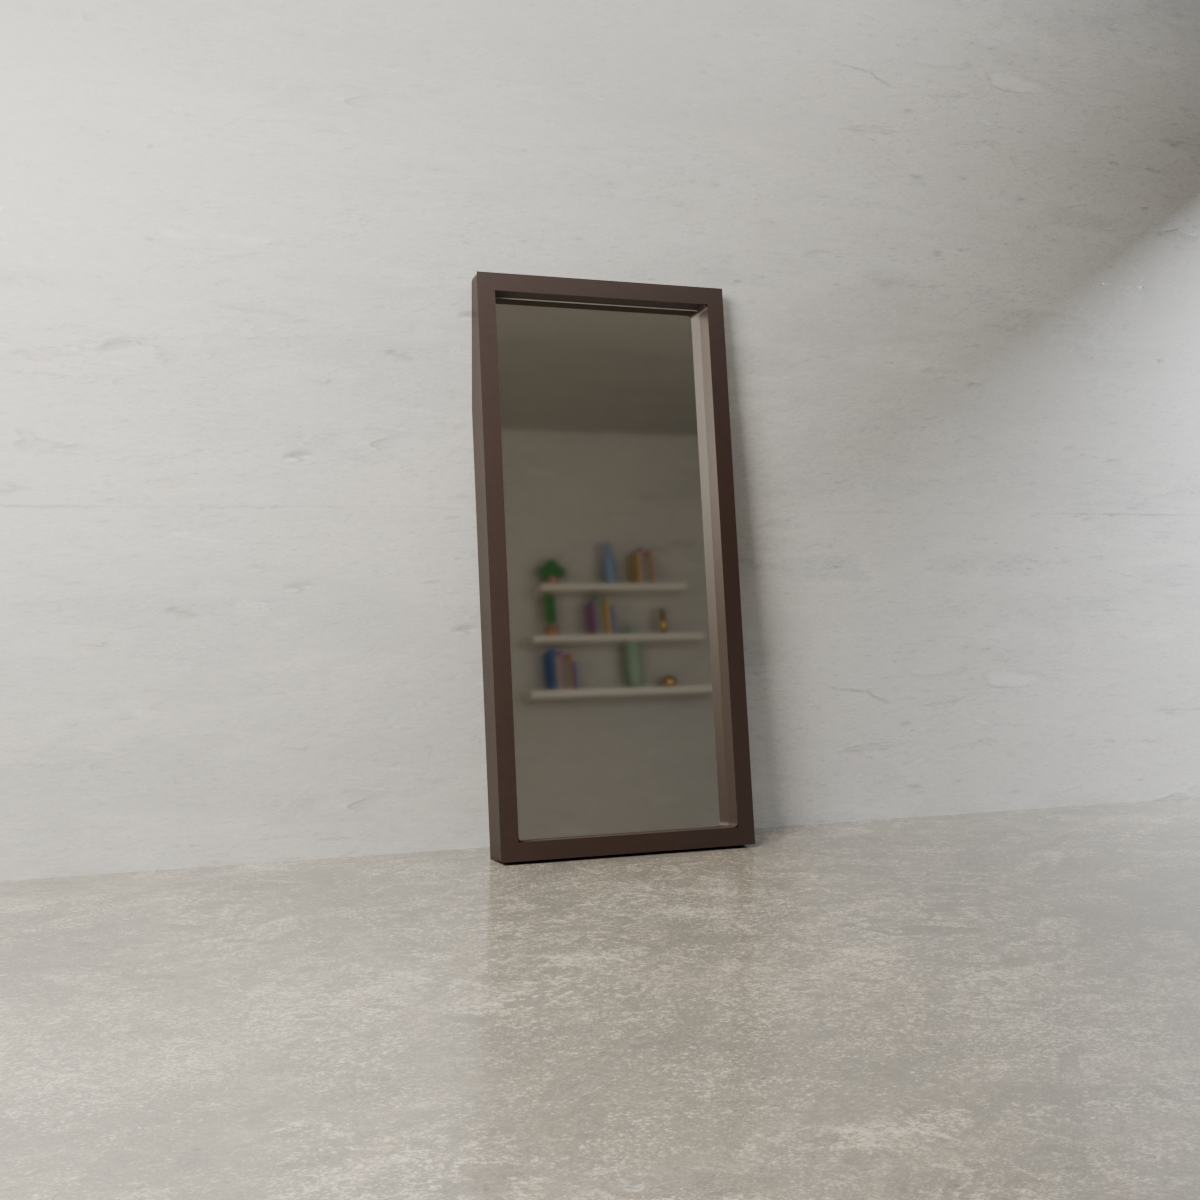
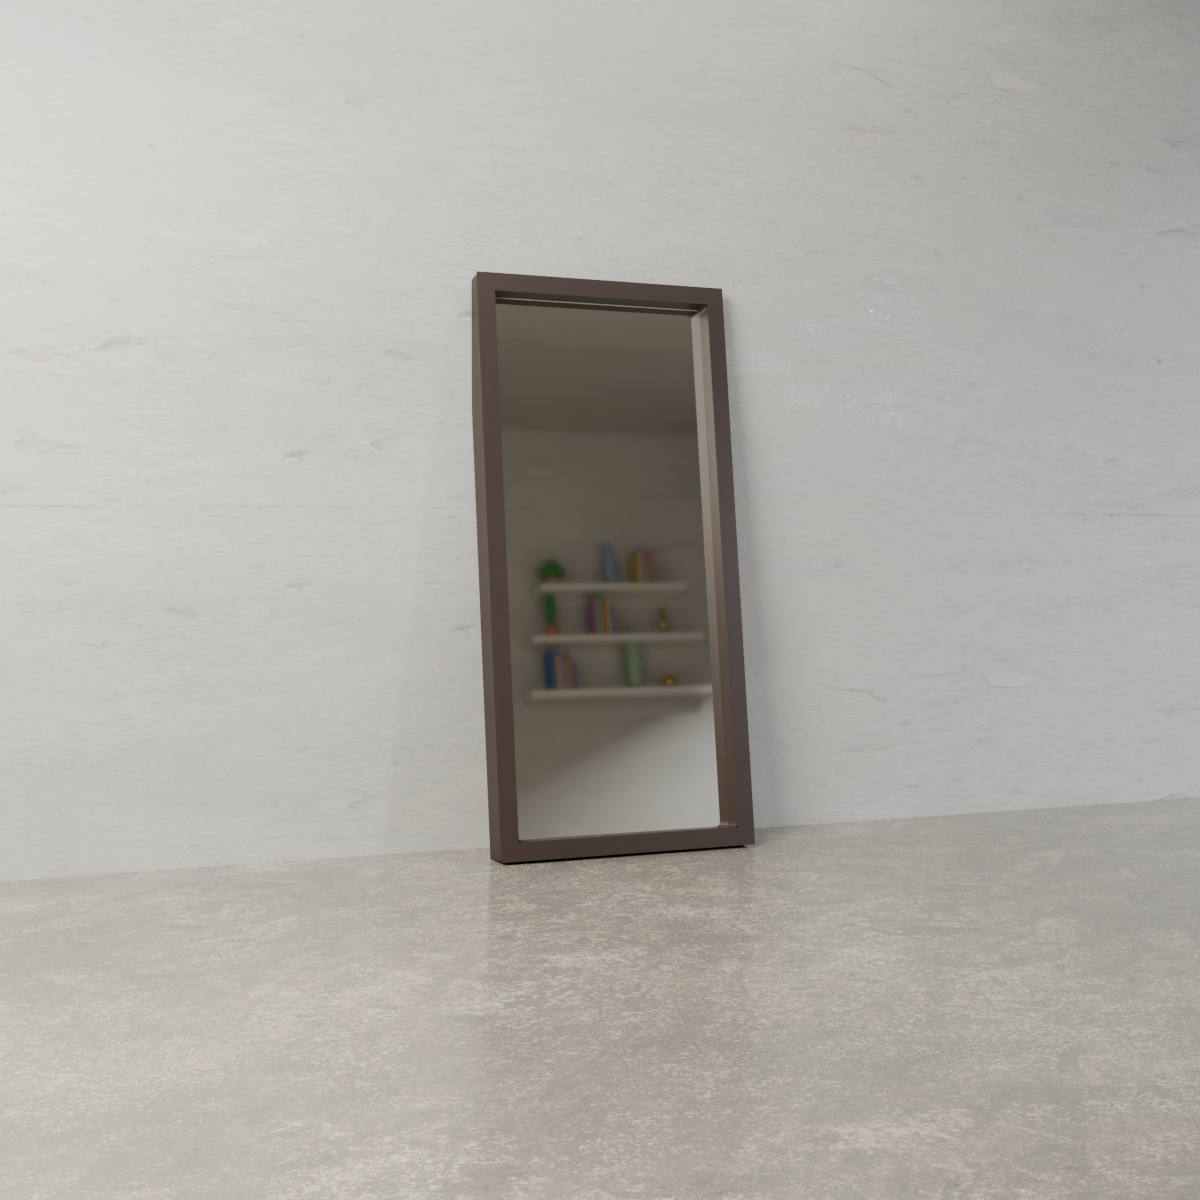
Fix fill light floor hotspot on mirror render
Moved fill light from Y=-1.5 to Y=-3.8 so near-floor falls outside beam footprint.

Changed region(s): [[0.6783, 0.0617, 1.0, 0.4008], [0.4317, 0.2775, 0.6783, 0.7092], [0.9867, 0.2775, 1.0, 0.37]]

diff --git a/scripts/render_mirror.py b/scripts/render_mirror.py
@@ -717,7 +717,7 @@ def add_area(loc, energy, size, color, rot_xyz):
 # Lighting: keep key strong (directional shadows), reduce fill/rim/top so
 # dark walnut frame reads dark — ambient floor was washing out all colors.
 add_area((-2.5, -2.0, 2.5), 300, 1.8, (1.00, 0.97, 0.90), (34,  0, -28))  # key — restored so reflection stays bright
-add_area(( 3.5, -1.5, 2.5), 380, 0.8, (0.90, 0.94, 1.00), ( 38,  0, -65))  # fill — raised to Z=2.5, tilted down to aim at back wall, no floor hotspot
+add_area(( 3.5, -3.8, 2.5), 420, 0.4, (0.90, 0.94, 1.00), ( 28,  0, -52))  # fill — pushed far back so near-floor is out of beam, aims across to back wall
 add_area(( 0.0, -0.8, 4.0),  60, 3.0, (1.00, 0.98, 0.94), (78,  0,   0))  # top
 # rim light removed — was behind the back wall (Y=2.8) causing right-side glow
 
